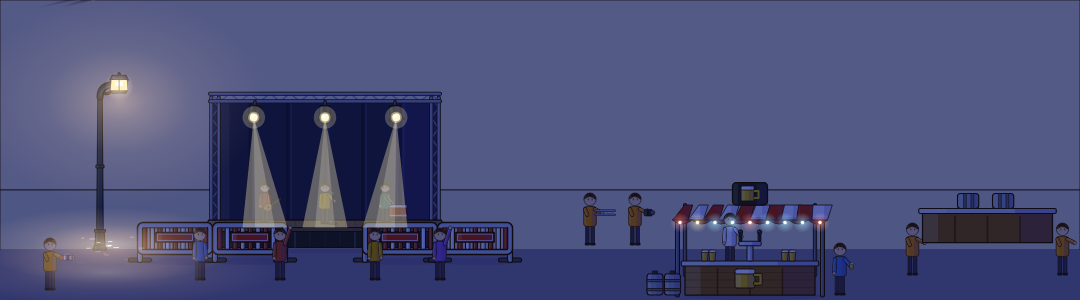
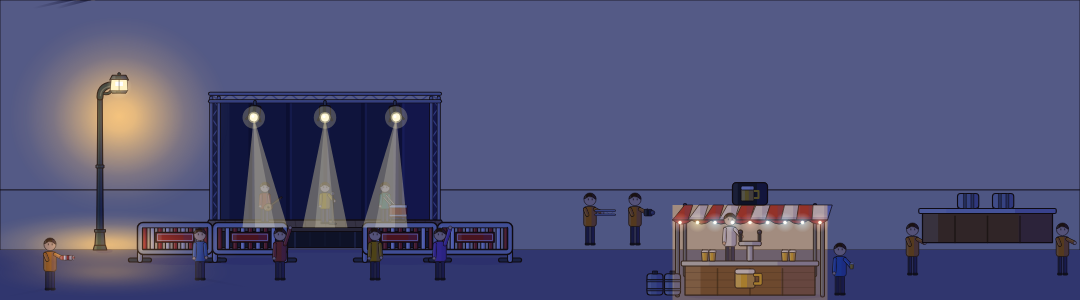
docs(bibliotheque): maquette G5 — lumière de nuit naturelle, deuxième passe (Fable)
Claude-Session: https://claude.ai/code/session_013ZuXsaoNr127mvw7YX8a2o

Changed region(s): [[0.6111, 0.66, 0.7639, 1.0], [0.0306, 0.21, 0.1833, 0.63], [0.0306, 0.75, 0.1833, 0.93]]

diff --git a/docs/superpowers/maquettes/g5-fetes/index.html b/docs/superpowers/maquettes/g5-fetes/index.html
@@ -18,7 +18,7 @@ canvas{display:block;border-radius:6px;box-shadow:0 2px 10px #0003;background:#d
 <h3>3 · Zoom ×4 <span class="tag">jour puis nuit, 270 px de rue</span></h3>
 <canvas id="zoom-day"></canvas><br>
 <canvas id="zoom-night"></canvas>
-<p class="leg">Lumière de nuit : après le bleu nuit (multiply), chaque lumière est <b>ajoutée</b> en mode <code>screen</code> par des dégradés radiaux doux (cœur ambré d'incandescence, bord fondu) : halo du mur autour de la lanterne, flaque en perspective au pied du mât (trottoir puis chaussée), étincelles sur les joints des dalles et des pavés, bloom serré du verre. Les acteurs proches reçoivent un rehaut chaud du côté de la lampe et projettent une ombre portée à l'opposé. Vitrines et fenêtres débordent doucement sur le mur et le trottoir.</p>
+<p class="leg">Lumière de nuit « deux peintures » : la scène de jour, teintée ambre, est <b>révélée</b> à travers un masque d'intensité (décroissance en inverse du carré) par-dessus la scène passée au bleu nuit : près d'une lampe, l'enduit, les volets, les dalles et les pavés retrouvent leurs couleurs, réchauffées ; loin, le bleu profond. Pas de brouillard : seul un bloom serré autour du verre. Flaque aplatie au pied du mât, trapèze doux devant les vitrines éclairées ; acteurs avec ombre portée à l'opposé de la lampe et liseré chaud côté lampe.</p>
 <h3>3 bis · Nuit de pluie <span class="tag">×4 · cône diffus · reflets étirés et ondulés sur les pavés mouillés · pas de feu d'artifice</span><span class="anim">animé</span></h3>
 <canvas id="night-rain"></canvas>
 
@@ -775,61 +775,66 @@ function streetBackdrop(ctx,{night=false,seed=7,behind=null}={}){const{W,H,G,CUR
  return items;
  function h2(h){return h}}
 // ───────────────────────── Lumière de nuit (remplace GhibliNightLight) ─────────────────────────
-// Principe : après le multiply bleu nuit, la lumière est ajoutée en mode `screen` (elle ÉCLAIRCIT et réchauffe ce qu'elle touche,
-// la texture reste visible) avec des dégradés radiaux à décroissance douce : cœur ambré d'incandescence, bord fondu dans le bleu.
-const AMBER=[255,196,112],AMBER_CORE=[255,230,170];
+// Principe « deux peintures » : la scène est peinte de jour, puis (1) une copie est teintée ambre (multiply) : c'est la version
+// « éclairée à la lampe », couleurs locales réchauffées, un peu plus sombres que le jour ; (2) la scène passe au bleu nuit (multiply) ;
+// (3) la version éclairée est RÉVÉLÉE à travers un masque d'intensité (dégradés radiaux à décroissance en inverse du carré adoucie :
+// flaque au sol, mur autour de la lanterne, vitrines et leur trapèze sur le trottoir). Aucun blanc ajouté : la lumière rend aux enduits,
+// volets et pavés leurs couleurs, réchauffées. Dans l'air sec, seul un bloom serré autour du verre.
+const AMBER=[255,196,112],AMBER_CORE=[255,230,170],LIT_TINT='#FFD4A0';
 const grad=(ctx,x,y,r0,r1,stops)=>{const g=ctx.createRadialGradient(x,y,r0,x,y,r1);for(const[o,c,a]of stops)g.addColorStop(o,rgba(c,a));return g};
-// Flaque au sol en perspective : ellipse aplatie centrée au pied du mât (x+3), plus claire au pied, qui s'étale sur le trottoir et faiblit sur la chaussée.
-function groundPool(ctx,x,y,rx,ry,a=1){ctx.save();ctx.globalCompositeOperation='screen';ctx.translate(x,y);ctx.scale(1,ry/rx);ctx.fillStyle=grad(ctx,0,0,0,rx,[[0,AMBER_CORE,0.62*a],[0.22,AMBER,0.46*a],[0.55,AMBER,0.18*a],[1,AMBER,0]]);ctx.beginPath();ctx.arc(0,0,rx,0,TAU);ctx.fill();ctx.restore()}
-// Lumière d'un lampadaire : lanterne à (9, −77)·k. Réchauffe le mur derrière (dégradé radial autour de la lanterne, borné au mur),
-// flaque au sol, joints des pavés qui captent la lumière (étincelles `lighter` près du pied), bloom serré du verre. Pluie : cône très léger
-// et reflets étirés et ondulés sur les pavés mouillés.
-function lampLight(ctx,x,curb,k,{wallTop=-1e9,ground=curb-20,far=curb+40,rain=false,u=1,seed=1}={}){const gx=x+9*k,gy=curb-77*k,R0=58*u;
- ctx.save();ctx.globalCompositeOperation='screen';
- // air et mur : halo large très doux autour de la lanterne, légèrement aplati (il ne monte guère vers le ciel)
- ctx.save();ctx.translate(gx,gy+6*u);ctx.scale(1,0.72);ctx.fillStyle=grad(ctx,0,0,0,R0,[[0,AMBER,0.5],[0.18,AMBER,0.3],[0.5,AMBER,0.1],[1,AMBER,0]]);ctx.beginPath();ctx.arc(0,0,R0,0,TAU);ctx.fill();ctx.restore();
- // bloom serré du verre
- ctx.fillStyle=grad(ctx,gx,gy,0,7*k,[[0,AMBER_CORE,0.9],[0.35,AMBER_CORE,0.45],[1,AMBER,0]]);ctx.beginPath();ctx.arc(gx,gy,7*k,0,TAU);ctx.fill();
- ctx.restore();
- // flaque : trottoir (claire) puis chaussée (plus faible et plus large)
- groundPool(ctx,x+3*u,curb-2*u,54*u,15*u,1);groundPool(ctx,x+3*u,curb+9*u,70*u,13*u,0.45);
- // joints des pavés et des dalles : étincelles chaudes près du pied, de moins en moins loin
- const rng=mulberry32(seed^(x*7919|0));ctx.save();ctx.globalCompositeOperation='lighter';
- for(let i=0;i<26;i++){const d=rng(),ang=rng()*TAU,px=x+3*u+Math.cos(ang)*d*48*u,py=curb-2*u+Math.sin(ang)*d*14*u+(py=>py)(0);const on=py<curb?1:0.55;ctx.fillStyle=rgba(AMBER_CORE,(1-d)*(1-d)*0.32*on);ctx.fillRect(px-(0.5+rng()*0.6)*u,py-0.2*u,(1+rng()*1.4)*u,0.4*u)}
- ctx.restore();
- if(rain){ctx.save();ctx.globalCompositeOperation='screen';
-  // cône diffus dans la pluie
-  const cg=ctx.createLinearGradient(0,gy,0,curb);cg.addColorStop(0,rgba(AMBER,0.16));cg.addColorStop(1,rgba(AMBER,0));ctx.fillStyle=cg;ctx.beginPath();ctx.moveTo(gx-4*k,gy);ctx.lineTo(gx+4*k,gy);ctx.lineTo(gx+26*u,curb);ctx.lineTo(gx-30*u,curb);ctx.closePath();ctx.fill();
-  // reflet étiré sur les pavés mouillés : rubans verticaux ondulés, du bord du trottoir vers le bas, qui s'estompent
-  const w=9*u,h=far-curb;for(let j=0;j<5;j++){const ox=(j-2)*2.6*u,ph=j*1.3;ctx.beginPath();ctx.moveTo(gx+ox-w/2,curb);for(let yy=0;yy<=h;yy+=2*u){const wig=Math.sin(yy/(3*u)+ph)*1.4*u;ctx.lineTo(gx+ox-w/2*(1-yy/h*0.5)+wig,curb+yy)}for(let yy=h;yy>=0;yy-=2*u){const wig=Math.sin(yy/(3*u)+ph+0.8)*1.4*u;ctx.lineTo(gx+ox+w/2*(1-yy/h*0.5)+wig,curb+yy)}ctx.closePath();
-   const rg=ctx.createLinearGradient(0,curb,0,far);rg.addColorStop(0,rgba(AMBER_CORE,0.22));rg.addColorStop(0.5,rgba(AMBER,0.1));rg.addColorStop(1,rgba(AMBER,0));ctx.fillStyle=rg;ctx.fill()}
-  ctx.restore()}}
-// Fenêtre allumée : vitre chaude + lueur douce qui déborde sur le mur.
-function windowLight(ctx,x,y,w,h,c,a=1,part='both'){if(part!=='fill'){ctx.save();ctx.globalCompositeOperation='screen';const cx=x+w/2,cy=y+h/2,r=Math.max(w,h)*1.6;ctx.fillStyle=grad(ctx,cx,cy,0,r,[[0,C(c),0.55*a],[0.4,C(c),0.2*a],[1,C(c),0]]);ctx.fillRect(cx-r,cy-r,2*r,2*r);ctx.restore()}if(part==='glow')return;
- ctx.fillStyle=rgba(C(c),0.95*a);ctx.fillRect(x,y,w,h);ctx.fillStyle='rgba(42,26,24,0.35)';ctx.fillRect(x+w*0.46,y,w*0.08,h);ctx.fillRect(x,y+h*0.44,w,h*0.06)}
-// Vitrine allumée : intérieur chaud, lumière qui déborde doucement sur le trottoir (dégradé vertical) et sur la chaussée.
-function shopLight(ctx,x,y,w,h,ground,far,{c=AMBER,a=1,rain=false}={}){ctx.save();ctx.globalCompositeOperation='screen';
- ctx.fillStyle=rgba(c,0.32*a);ctx.fillRect(x,y,w,h);ctx.save();ctx.translate(x+w/2,ground-1);ctx.scale(w/2+14,24);ctx.fillStyle=grad(ctx,0,0,0,1,[[0,c,0.4*a],[0.4,c,0.18*a],[1,c,0]]);ctx.beginPath();ctx.arc(0,0,1,0,TAU);ctx.fill();ctx.restore();
- // lueur sur le mur autour de la vitrine
- ctx.fillStyle=grad(ctx,x+w/2,y+h/2,w*0.3,w*0.9,[[0,c,0.14*a],[1,c,0]]);ctx.fillRect(x-w/2,y-h,2*w,3*h);
- if(rain){const rg=ctx.createLinearGradient(0,far-20,0,far);rg.addColorStop(0,rgba(c,0.14*a));rg.addColorStop(1,rgba(c,0));ctx.fillStyle=rg;for(let k=0;k<4;k++){const sx=x+w*(0.15+k*0.23);ctx.beginPath();ctx.moveTo(sx-3,far-20);ctx.quadraticCurveTo(sx+2,far-10,sx-2,far);ctx.lineTo(sx+4,far);ctx.quadraticCurveTo(sx+6,far-10,sx+3,far-20);ctx.closePath();ctx.fill()}}
+// Décroissance 1/(1+(d/r0)²) adoucie, en arrêts de dégradé (alpha du masque = intensité).
+const FALL=k=>[[0,[255,255,255],k],[0.15,[255,255,255],0.9*k],[0.35,[255,255,255],0.6*k],[0.6,[255,255,255],0.25*k],[0.85,[255,255,255],0.06*k],[1,[255,255,255],0]];
+const maskDisc=(m,x,y,rx,ry,k=1)=>{m.save();m.translate(x,y);m.scale(1,ry/rx);m.fillStyle=grad(m,0,0,0,rx,FALL(k));m.beginPath();m.arc(0,0,rx,0,TAU);m.fill();m.restore()};
+// Masque d'un lampadaire (lanterne à (9, −77)·k) : mur autour de la lanterne (petit, aplati), flaque au pied du mât (trottoir), flaque de chaussée (faible, rapide).
+function lampMask(m,x,curb,k,u=1){const gx=x+9*k,gy=curb-77*k;maskDisc(m,gx,gy+12*u,44*u,40*u,1);maskDisc(m,x+3*u,curb-2*u,56*u,14*u,1);maskDisc(m,x+3*u,curb+9*u,50*u,10*u,0.6)}
+// Masque d'une vitrine : intérieur plein (la boutique est éclairée), lueur autour sur le mur, trapèze doux sur le trottoir.
+function shopMask(m,x,y,w,h,ground){m.fillStyle='rgba(255,255,255,1)';m.fillRect(x,y,w,h);maskDisc(m,x+w/2,y+h/2,w*0.75,h*1.1,0.35);
+ // trapèze doux sur le trottoir : demi-ellipse de décroissance (bords fondus) + trapèze faible qui garde la direction de la lumière
+ m.save();m.beginPath();m.rect(x-14,ground,w+28,30);m.clip();maskDisc(m,x+w/2,ground,w/2+10,20,0.85);
+ const g=m.createLinearGradient(0,ground,0,ground+22);g.addColorStop(0,'rgba(255,255,255,0.35)');g.addColorStop(1,'rgba(255,255,255,0)');m.fillStyle=g;m.beginPath();m.moveTo(x+2,ground);m.lineTo(x+w-2,ground);m.lineTo(x+w+5,ground+22);m.lineTo(x-5,ground+22);m.closePath();m.fill();m.restore()}
+function windowMask(m,x,y,w,h){maskDisc(m,x+w/2,y+h/2,w*1.3,h*1.1,0.3)}
+// Copie de la scène de jour (avant le bleu nuit).
+function snapshot(ctx){const c=document.createElement('canvas');c.width=ctx.canvas.width;c.height=ctx.canvas.height;c.getContext('2d').drawImage(ctx.canvas,0,0);return c}
+const litBuf=document.createElement('canvas');
+// Révèle la version éclairée : `day` = copie de jour ; `mask` = canvas d'intensité (cache de l'appelant) ; teinte LIT_TINT.
+function revealLit(ctx,day,mask){const cv=ctx.canvas;if(litBuf.width!==cv.width||litBuf.height!==cv.height){litBuf.width=cv.width;litBuf.height=cv.height}
+ const o=litBuf.getContext('2d');o.setTransform(1,0,0,1,0,0);o.globalCompositeOperation='source-over';o.clearRect(0,0,cv.width,cv.height);o.drawImage(day,0,0);
+ o.globalCompositeOperation='multiply';o.fillStyle=LIT_TINT;o.fillRect(0,0,cv.width,cv.height);o.globalCompositeOperation='screen';o.fillStyle=rgba(AMBER,0.2);o.fillRect(0,0,cv.width,cv.height);
+ o.globalCompositeOperation='destination-in';o.drawImage(mask,0,0);
+ ctx.save();ctx.setTransform(1,0,0,1,0,0);ctx.globalCompositeOperation='source-over';ctx.drawImage(litBuf,0,0);ctx.restore()}
+// Canvas de masque aux dimensions et au repère de `ctx`, rempli par `draw(m)`.
+function makeMask(ctx,draw){const c=document.createElement('canvas');c.width=ctx.canvas.width;c.height=ctx.canvas.height;const m=c.getContext('2d');m.setTransform(ctx.getTransform());draw(m);return c}
+// Bloom serré du verre (seule lumière « dans l'air » par temps sec), en screen.
+function lampBloom(ctx,x,curb,k,{rain=false,u=1}={}){const gx=x+9*k,gy=curb-77*k;ctx.save();ctx.globalCompositeOperation='screen';
+ ctx.fillStyle=grad(ctx,gx,gy,0,6*k,[[0,AMBER_CORE,0.85],[0.3,AMBER,0.45],[1,AMBER,0]]);ctx.beginPath();ctx.arc(gx,gy,6*k,0,TAU);ctx.fill();
+ if(rain){ctx.fillStyle=grad(ctx,gx,gy,0,22*u,[[0,AMBER,0.22],[0.5,AMBER,0.07],[1,AMBER,0]]);ctx.beginPath();ctx.arc(gx,gy,22*u,0,TAU);ctx.fill();
+  const cg=ctx.createLinearGradient(0,gy,0,curb);cg.addColorStop(0,rgba(AMBER,0.12));cg.addColorStop(1,rgba(AMBER,0));ctx.fillStyle=cg;ctx.beginPath();ctx.moveTo(gx-4*k,gy);ctx.lineTo(gx+4*k,gy);ctx.lineTo(gx+22*u,curb);ctx.lineTo(gx-26*u,curb);ctx.closePath();ctx.fill()}
  ctx.restore()}
-// Acteurs touchés par une lampe : ombre portée au sol À L'OPPOSÉ de la lampe (allongée, qui s'estompe, multiply) et rehaut chaud
-// (rim light) sur la face tournée vers la lampe : l'acteur est redessiné dans un canvas tampon, masqué par un dégradé (source-in),
-// puis composé en `screen`. `a` = {x, y (pieds), w, h, draw()} dans le repère courant ; `lamp` = {x: pied du mât, lx: lanterne x, ly}.
+// Vitre d'une fenêtre allumée (opaque, par-dessus la nuit).
+function windowPane(ctx,x,y,w,h,c,a=1){ctx.fillStyle=rgba(C(c),0.95*a);ctx.fillRect(x,y,w,h);ctx.fillStyle='rgba(42,26,24,0.35)';ctx.fillRect(x+w*0.46,y,w*0.08,h);ctx.fillRect(x,y+h*0.44,w,h*0.06)}
+// Pluie : colonne de reflet sous une lumière (x, demi-largeur hw, du bord du trottoir `curb` vers `far`) : petits traits horizontaux brisés,
+// chauds, qui se fondent (densité et alpha décroissants vers le bas) ; `c` couleur de la lumière.
+function wetColumn(ctx,x,hw,curb,far,c=AMBER,k=1,seed=1){const rng=mulberry32(seed^(x*131|0)),h=far-curb;ctx.save();ctx.globalCompositeOperation='screen';
+ for(let i=0;i<90;i++){const v=rng(),y=curb+v*v*h,sp=1-y/far*0+0;const a=k*(1-(y-curb)/h)*(0.55+0.45*rng());const w=(1.5+rng()*4)*(1+(y-curb)/h*1.2),ox=(rng()-0.5)*2*hw*(0.6+0.6*(y-curb)/h);
+  ctx.fillStyle=rgba(i%3?c:AMBER_CORE,a*0.75);ctx.fillRect(x+ox-w/2,y,w,0.5)}ctx.restore()}
+// Pluie : reflet inversé flou des vitrines et façades sur la chaussée mouillée (copie de jour teintée, retournée autour du bord du trottoir).
+function wetReflection(ctx,day,mask,curb,far,ground){const cv=ctx.canvas,tf=ctx.getTransform();const o=litBuf.getContext('2d');o.setTransform(1,0,0,1,0,0);o.globalCompositeOperation='source-over';o.clearRect(0,0,cv.width,cv.height);o.drawImage(day,0,0);o.globalCompositeOperation='multiply';o.fillStyle=LIT_TINT;o.fillRect(0,0,cv.width,cv.height);o.globalCompositeOperation='destination-in';o.drawImage(mask,0,0);
+ ctx.save();ctx.beginPath();ctx.rect(-1e4,curb,2e4,far-curb);ctx.clip();ctx.translate(0,2*curb);ctx.scale(1,-1);const g=ctx.createLinearGradient(0,curb,0,curb-(far-curb));g.addColorStop(0,'rgba(0,0,0,0.42)');g.addColorStop(1,'rgba(0,0,0,0)');
+ ctx.filter='blur(1.2px)';ctx.globalCompositeOperation='screen';ctx.setTransform(tf.a,0,0,-tf.d,tf.e,tf.f+2*curb*tf.d);ctx.globalAlpha=0.35;ctx.drawImage(litBuf,0,0,cv.width,cv.height,0,0,cv.width/tf.a,cv.height/tf.d);ctx.restore();
+ // fondu vers le bas
+ ctx.save();ctx.globalCompositeOperation='destination-out';ctx.fillStyle=g;ctx.restore()}
+// Acteurs touchés par une lampe : ombre portée au sol À L'OPPOSÉ de la lampe (sombre au pied, qui s'estompe, multiply) et liseré chaud
+// (rim light) sur la face tournée vers la lampe : l'acteur est redessiné dans un canvas tampon, masqué par un dégradé (source-in), composé en screen.
 const rimBuf=document.createElement('canvas');
-function actorShadow(ctx,a,lamp){const d=a.x-lamp.lx,dist=Math.hypot(d,a.y-lamp.ly);if(Math.abs(d)>70)return;const dir=d>=0?1:-1,L=Math.min(a.h*1.1,a.h*0.35+Math.abs(d)*0.5),str=0.5*Math.max(0,1-dist/80);
- ctx.save();ctx.globalCompositeOperation='multiply';const g=ctx.createLinearGradient(a.x,a.y,a.x+dir*L,a.y);g.addColorStop(0,`rgba(40,36,90,${str*1.3})`);g.addColorStop(1,'rgba(40,36,90,0)');ctx.fillStyle=g;
- ctx.beginPath();ctx.moveTo(a.x-a.w*0.45,a.y-0.5);ctx.lineTo(a.x+a.w*0.45,a.y-0.5);ctx.lineTo(a.x+dir*L+a.w*0.2,a.y+3.2);ctx.lineTo(a.x+dir*L-a.w*0.2,a.y+3.2);ctx.closePath();ctx.fill();ctx.restore()}
-function actorRim(ctx,a,lamp){const d=a.x-lamp.lx,dist=Math.hypot(d,a.y-a.h/2-lamp.ly);if(dist>95)return;const str=0.75*Math.max(0,1-dist/95);
+function actorShadow(ctx,a,lamp){const d=a.x-lamp.lx,dist=Math.hypot(d,a.y-lamp.ly);if(Math.abs(d)>75)return;const dir=d>=0?1:-1,L=Math.min(a.h*1.2,a.h*0.4+Math.abs(d)*0.55),str=0.8*Math.max(0,1-dist/90);
+ ctx.save();ctx.globalCompositeOperation='multiply';const g=ctx.createLinearGradient(a.x,a.y,a.x+dir*L,a.y);g.addColorStop(0,`rgba(22,18,70,${Math.min(1,str*1.25)})`);g.addColorStop(0.5,`rgba(22,18,70,${str*0.5})`);g.addColorStop(1,'rgba(30,26,80,0)');ctx.fillStyle=g;
+ ctx.beginPath();ctx.moveTo(a.x-a.w*0.5,a.y-0.6);ctx.lineTo(a.x+a.w*0.5,a.y-0.6);ctx.lineTo(a.x+dir*L+a.w*0.25,a.y+3.4);ctx.lineTo(a.x+dir*L-a.w*0.25,a.y+3.4);ctx.closePath();ctx.fill();ctx.restore()}
+function actorRim(ctx,a,lamp){const d=a.x-lamp.lx,dist=Math.hypot(d,a.y-a.h/2-lamp.ly);if(dist>95)return;const str=Math.min(1,1.1*Math.max(0,1-dist/95));
  const tf=ctx.getTransform(),cv=ctx.canvas;if(rimBuf.width!==cv.width||rimBuf.height!==cv.height){rimBuf.width=cv.width;rimBuf.height=cv.height}
- const o=rimBuf.getContext('2d');o.setTransform(tf);const bx=a.x-a.w,by=a.y-a.h-2,bw=2*a.w,bh=a.h+3;o.save();o.beginPath();o.rect(bx,by,bw,bh);o.clip();o.clearRect(bx,by,bw,bh);a.draw(o);
- o.globalCompositeOperation='source-in';const side=d>=0?-1:1;const g=o.createLinearGradient(a.x+side*a.w*0.5,0,a.x-side*a.w*0.35,0);g.addColorStop(0,rgba(AMBER_CORE,str));g.addColorStop(0.5,rgba(AMBER,str*0.35));g.addColorStop(1,rgba(AMBER,0));o.fillStyle=g;o.fillRect(bx,by,bw,bh);o.restore();
- // recopie du tampon (rectangle en pixels de l'appareil)
- const px=bx*tf.a+tf.e,py=by*tf.d+tf.f,pw=bw*tf.a,ph=bh*tf.d;ctx.save();ctx.setTransform(1,0,0,1,0,0);ctx.globalCompositeOperation='screen';ctx.drawImage(rimBuf,px,py,pw,ph,px,py,pw,ph);ctx.restore()}
-function relightActors(ctx,actors,lamps){for(const a of actors){let best=null,bd=1e9;for(const l of lamps){const dd=Math.abs(a.x-l.lx);if(dd<bd){bd=dd;best=l}}if(!best)continue;actorShadow(ctx,a,best);actorRim(ctx,a,best)}}
-// Compatibilité (planche 4) : flaque simple.
-function nightPool(ctx,x,curb,k,u=1){lampLight(ctx,x,curb,k,{u,ground:curb-20,far:curb+40})}
+ const o=rimBuf.getContext('2d');o.setTransform(tf);o.globalCompositeOperation='source-over';const bx=a.x-a.w,by=a.y-a.h-2,bw=2*a.w,bh=a.h+3;o.save();o.beginPath();o.rect(bx,by,bw,bh);o.clip();o.clearRect(bx,by,bw,bh);a.draw(o);
+ o.globalCompositeOperation='source-in';const side=d>=0?-1:1;const g=o.createLinearGradient(a.x+side*a.w*0.5,0,a.x-side*a.w*0.3,0);g.addColorStop(0,rgba(AMBER_CORE,str));g.addColorStop(0.35,rgba(AMBER,str*0.5));g.addColorStop(1,rgba(AMBER,0));o.fillStyle=g;o.fillRect(bx,by,bw,bh);o.restore();
+ const px=bx*tf.a+tf.e,py=by*tf.d+tf.f,pw=bw*tf.a,ph=bh*tf.d;ctx.save();ctx.setTransform(1,0,0,1,0,0);ctx.globalCompositeOperation='lighter';ctx.globalAlpha=0.7;ctx.drawImage(rimBuf,px,py,pw,ph,px,py,pw,ph);ctx.restore()}
+function relightActors(ctx,actors,lamps){for(const a of actors){let best=null,bd=1e9;for(const l of lamps){const dd=Math.abs(a.x-l.lx);if(dd<bd){bd=dd;best=l}}if(!best)continue;actorShadow(ctx,a,best)}for(const a of actors){let best=null,bd=1e9;for(const l of lamps){const dd=Math.abs(a.x-l.lx);if(dd<bd){bd=dd;best=l}}if(best)actorRim(ctx,a,best)}}
 
 // La rue : lampadaires (tous les ~170), feu à bouton + passage, arrêt de bus, terrasse, chien promené, grue au loin, montgolfière et avion.
 const LAMP_XS=[62,232,402,572,742,912,1082],KL=0.85,KP=0.55,LIGHT_X=640;street.cache=new Map();street.light=new Map();
@@ -863,17 +868,17 @@ function street(ctx,{night=false,t=0,x0=0,s=1,flags=false,rain=false}={}){const{
  actor(wx+26*KP+1,G+14,9,8,c=>{c.save();c.translate(wx,G+14);c.scale(KP,KP);c.save();c.translate(26,0);dog(c,{breed:'labrador',seed:3,t,leashTo:[-26+8.6,-20.6]});c.restore();c.restore()});
  // ouvrier sur une échelle qui change l'enseigne du 5e local
  const rec=items.filter(i=>i.k==='shop')[4];if(rec){actor(rec.x+8,G,6,32,c=>{c.save();c.translate(rec.x+8,G);ladder(c,30);c.translate(0,-14);c.scale(KP,KP);figure(c,{top:'#F28C28',bottom:'#3A3A4A'},{arms:'up'});c.restore()});actor(rec.x+rec.w/2+6,G,12,19,c=>{c.save();c.translate(rec.x+rec.w/2+6,G);c.scale(KP,KP);figure(c,{top:'#F28C28',bottom:'#3A3A4A'},{arms:'carry'});c.translate(0,-23.5);carriedSign(c,rec.w/KP*0.6,'#1C6FB8','#FFE45C','Proxi Marché');c.restore()})}
- if(night){nightFilter(ctx,W+x0,H);
-  if(rain){ctx.save();ctx.globalCompositeOperation='multiply';ctx.fillStyle='rgba(120,130,190,0.6)';ctx.fillRect(0,CURB,W,H-CURB);ctx.restore()} // sol mouillé, plus sombre
-  // lumières fixes (fenêtres, vitrines, lampadaires) mises en cache dans une image transparente, composée en `screen`
-  const lamps=LAMP_XS.map(x=>({x,lx:x+9*KL,ly:CURB-77*KL}));const lkey=`${x0}|${tf.a}|${rain}`;let lc=street.light.get(lkey);
-  if(!lc){lc=document.createElement('canvas');lc.width=ctx.canvas.width;lc.height=ctx.canvas.height;const o=lc.getContext('2d');o.setTransform(tf);
-   for(const it of bg.lit){if(it.k==='win')windowLight(o,it.x,it.y,5,8,it.c,1,'glow');else shopLight(o,it.x+2,G-20,it.w-4,19,G,FAR,{rain})}
-   for(const l of lamps)lampLight(o,l.x,CURB,KL,{wallTop:G-60,ground:G,far:FAR,rain});street.light.set(lkey,lc)}
-  ctx.save();ctx.setTransform(1,0,0,1,0,0);ctx.globalCompositeOperation='screen';ctx.drawImage(lc,0,0);ctx.restore();
-  for(const it of bg.lit)if(it.k==='win')windowLight(ctx,it.x,it.y,5,8,it.c,1,'fill');
+ if(night){
+  const day=snapshot(ctx);const lamps=LAMP_XS.map(x=>({x,lx:x+9*KL,ly:CURB-77*KL}));const lkey=`${x0}|${tf.a}`;let mk=street.light.get(lkey);
+  if(!mk){mk=makeMask(ctx,m=>{for(const it of bg.lit){if(it.k==='win')windowMask(m,it.x,it.y,5,8);else shopMask(m,it.x+2,G-20,it.w-4,19,G)}for(const l of lamps)lampMask(m,l.x,CURB,KL)});street.light.set(lkey,mk)}
+  nightFilter(ctx,W+x0,H);
+  if(rain){ctx.save();ctx.globalCompositeOperation='multiply';ctx.fillStyle='rgba(110,120,185,0.75)';ctx.fillRect(0,CURB,W,H-CURB);ctx.restore()} // sol mouillé, plus sombre
+  revealLit(ctx,day,mk);
+  ctx.save();ctx.globalCompositeOperation='screen';for(const it of bg.lit)if(it.k==='shop'){ctx.fillStyle=rgba(AMBER,0.38);ctx.fillRect(it.x+2,G-20,it.w-4,19)}ctx.restore();
+  if(rain){wetReflection(ctx,day,mk,CURB,FAR,G);for(const l of lamps)wetColumn(ctx,l.lx,7,CURB,FAR,AMBER,1,l.x);for(const it of bg.lit)if(it.k==='shop')wetColumn(ctx,it.x+it.w/2,it.w*0.22,CURB,FAR,AMBER,0.4,it.x)}
+  for(const it of bg.lit)if(it.k==='win')windowPane(ctx,it.x,it.y,5,8,it.c);
   const ap=items.filter(i=>i.k==='win')[7];if(ap){ctx.save();ctx.translate(ap.x,ap.y+1);apartmentGlow(ctx);ctx.restore()}
-  for(const l of lamps){ctx.save();ctx.translate(l.x,CURB);ctx.scale(KL,KL);lamp(ctx,{lit:true,pass:'lit'});ctx.restore()}
+  for(const l of lamps){lampBloom(ctx,l.x,CURB,KL,{rain});ctx.save();ctx.translate(l.x,CURB);ctx.scale(KL,KL);lamp(ctx,{lit:true,pass:'lit'});ctx.restore()}
   relightActors(ctx,actors,lamps);
   ctx.save();ctx.translate(LIGHT_X-19,CURB+1);ctx.scale(-1,1);trafficPole(ctx,{color:'red',pass:'lit'});ctx.restore();ctx.save();ctx.translate(LIGHT_X+19,FAR);trafficPole(ctx,{color:'green',pass:'lit'});ctx.restore();
   ctx.save();ctx.translate(150+(t*14)%300,14);ctx.scale(0.5,0.5);plane(ctx,{night:true,t,pass:'lit'});ctx.restore();
@@ -888,10 +893,10 @@ function street(ctx,{night=false,t=0,x0=0,s=1,flags=false,rain=false}={}){const{
 
 // ───────────────────────── 4. Planche mobilier de rue (×5) ─────────────────────────
 {const s=5,W=216,H=180;const ctx=mk('board-street',W,H,s);
- const cell=(x,y,w,h,label,night,draw)=>{ctx.save();ctx.translate(x,y);R(ctx,0,0,w,h,night?'#3A3A5A':'#F2DDB4',{lw:0.3,sh:0,li:0});R(ctx,0,h-8,w,8,night?'#4A4A66':'#E2D2B0',{lw:0.3,sh:0,li:0});ctx.save();ctx.translate(w/2,h-8);draw('base');ctx.restore();if(night){nightFilter(ctx,w,h);ctx.save();ctx.translate(w/2,h-8);draw('lit');ctx.restore()}text(ctx,label,w/2,3.5,3,night?'#FFFFFF':'#5A4A30');ctx.restore()};
+ const board={day:null};const cell=(x,y,w,h,label,night,draw)=>{ctx.save();ctx.translate(x,y);R(ctx,0,0,w,h,night?'#E8DCC0':'#F2DDB4',{lw:0.3,sh:0,li:0});R(ctx,0,h-8,w,8,night?'#D8C8A8':'#E2D2B0',{lw:0.3,sh:0,li:0});ctx.save();ctx.translate(w/2,h-8);draw('base');ctx.restore();if(night){board.day=snapshot(ctx);nightFilter(ctx,w,h);ctx.save();ctx.translate(w/2,h-8);draw('lit');ctx.restore()}text(ctx,label,w/2,3.5,3,night?'#FFFFFF':'#5A4A30');ctx.restore()};
  ctx.fillStyle='#E9DCC4';ctx.fillRect(0,0,W,H);
  cell(0,0,36,100,'lampadaire · jour',false,p=>{ctx.scale(0.85,0.85);lamp(ctx,{pass:p})});
- cell(36,0,36,100,'allumé · nuit',true,p=>{if(p==='lit')lampLight(ctx,0,0,0.85,{wallTop:-92,ground:-6,far:8});ctx.scale(0.85,0.85);lamp(ctx,{lit:true,pass:p})});
+ cell(36,0,36,100,'allumé · nuit',true,p=>{if(p==='lit'){const mk=makeMask(ctx,m=>{m.save();m.beginPath();m.rect(-18,-92,36,100);m.clip();lampMask(m,0,0,0.85);m.restore()});revealLit(ctx,board.day,mk);lampBloom(ctx,0,0,0.85)}ctx.scale(0.85,0.85);lamp(ctx,{lit:true,pass:p})});
  cell(72,0,36,100,'14 juillet',false,p=>{ctx.scale(0.85,0.85);lamp(ctx,{pass:p,flag:true,flagT:0.3})});
  cell(108,0,36,100,'feu + bouton · vert',false,p=>{ctx.translate(-6,0);trafficPole(ctx,{color:'green',pressed:true,pass:p});ctx.translate(14,0);busStop(ctx,{name:'Mairie',served:'far'})});
  cell(144,0,36,100,'feu rouge · nuit',true,p=>{ctx.translate(-6,0);trafficPole(ctx,{color:'red',pressed:false,pass:p});ctx.translate(14,0);busStop(ctx,{name:'Gare SNCF',served:'near'})});
@@ -920,7 +925,7 @@ function musicScene(ctx,{night=false,t=0}={}){const W=432,H=120,G=100,kp=0.55;
  fig(236,G-2,{top:'#F28C28'},'carry',kp,c=>{c.translate(9,-23.5);heldTruss(c)});fig(254,G-2,{top:'#F28C28'},'carry',kp,c=>{c.translate(9,-23.5);heldSpot(c)});fig(20,G+16,{top:'#F28C28'},'carry',kp,c=>{c.translate(9,-23.5);heldRoll(c)});
  // spectateurs
  [[80,'#4A7AB8'],[112,'#C0463A'],[150,'#E0A21E'],[176,'#8A5AB8']].forEach(([x,c],i)=>fig(x,G+12,{top:c},i%2?'up':'swing'));
- if(night){nightFilter(ctx,W,H);lampLight(ctx,lamp1,G,0.85,{wallTop:G-70,ground:G-24,far:H});ctx.save();ctx.translate(lamp1,G);ctx.scale(0.85,0.85);lamp(ctx,{lit:true,pass:'lit'});ctx.restore();relightActors(ctx,actors,[{x:lamp1,lx:lamp1+9*0.85,ly:G-77*0.85}]);
+ if(night){const day=snapshot(ctx);const mk=makeMask(ctx,m=>{lampMask(m,lamp1,G,0.85);m.fillStyle='rgba(255,255,255,0.55)';m.fillRect(300-31,G+18-36,62,54)});nightFilter(ctx,W,H);revealLit(ctx,day,mk);lampBloom(ctx,lamp1,G,0.85);ctx.save();ctx.translate(lamp1,G);ctx.scale(0.85,0.85);lamp(ctx,{lit:true,pass:'lit'});ctx.restore();relightActors(ctx,actors,[{x:lamp1,lx:lamp1+9*0.85,ly:G-77*0.85}]);
   ctx.save();ctx.translate(130,G-1);stageBeams(ctx,t);stageSpots(ctx,{lit:true,pass:'lit'});ctx.restore();
   // guirlande du stand
   ctx.save();ctx.translate(300,G+18);ctx.globalCompositeOperation='screen';for(let x=-28;x<=28;x+=7){const c=C(pick(['#FFE27A','#FF8A6A','#8AE0FF'],mulberry32(x+50)));ctx.fillStyle=grad(ctx,x,-29,0,4,[[0,c,0.9],[0.3,c,0.4],[1,c,0]]);ctx.beginPath();ctx.arc(x,-29,4,0,TAU);ctx.fill();disc(ctx,x,-29,0.7,'#FFF8D8',0)}ctx.restore()}}
@@ -966,7 +971,7 @@ function santaScene(ctx,t=0){const W=360,H=90;
  ctx.save();ctx.translate(120,28+Math.sin(t*1.3)*1.5);santa(ctx,{landed:false,lit:true,t,pass:'lit'});ctx.restore();
  ctx.save();ctx.translate(290,44);santa(ctx,{landed:true,lit:true,t,pass:'lit'});ctx.restore();
  // fenêtres allumées
- for(const[x,gy,w,ty]of roofs){for(let wx=x+8;wx<x+w-8;wx+=14)windowLight(ctx,wx,ty+15,5,8,'#FFE4A0')}}
+ for(const[x,gy,w,ty]of roofs){for(let wx=x+8;wx<x+w-8;wx+=14){ctx.save();ctx.globalCompositeOperation='screen';ctx.fillStyle=grad(ctx,wx+2.5,ty+19,0,9,[[0,AMBER,0.35],[1,AMBER,0]]);ctx.beginPath();ctx.arc(wx+2.5,ty+19,9,0,TAU);ctx.fill();ctx.restore();windowPane(ctx,wx,ty+15,5,8,'#FFE4A0')}}}
 anim('santa',360,90,3,(ctx,t)=>santaScene(ctx,t));
 
 // ───────────────────────── 8. Installations ─────────────────────────
